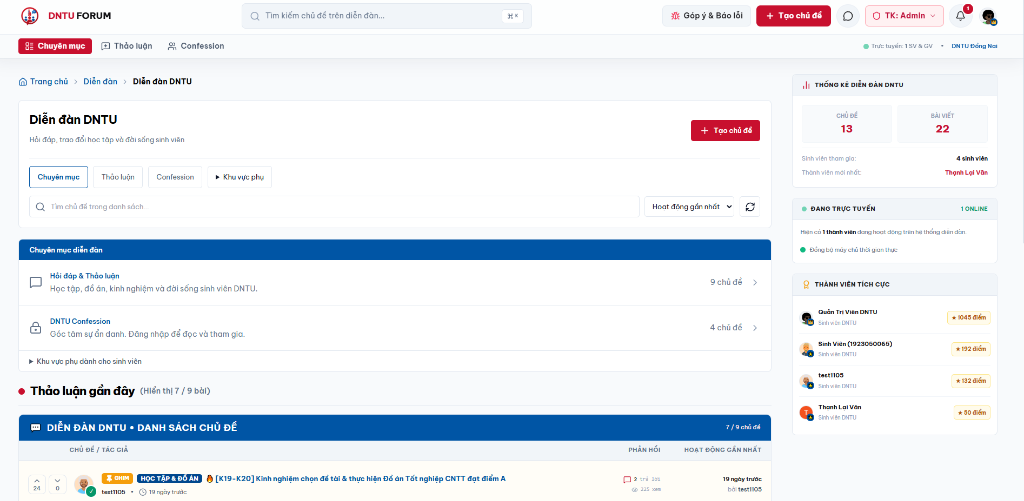
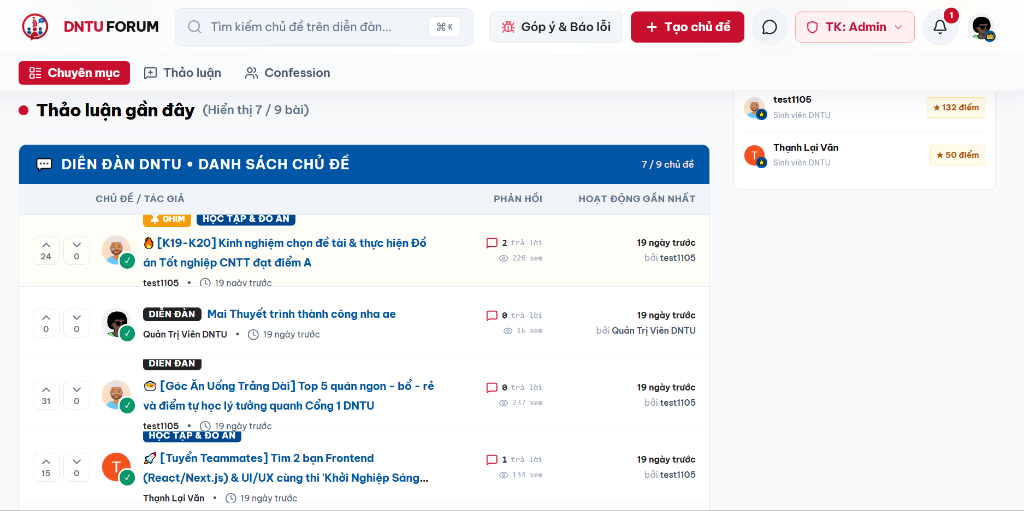
feat(projects): update DNTU-FORUM preview image to discussion topics list
- Replaced project preview image with the newly uploaded topics and discussion list screenshot
- Adjusted aspect ratio to 2:1 to display the full forum interface without cropping

diff --git a/src/app/page.tsx b/src/app/page.tsx
@@ -528,16 +528,15 @@ export default function PortfolioPage() {
                     </p>
 
                     {/* DNTU-FORUM Preview Image */}
-                    <div className="relative w-full aspect-[16/9] rounded-xl overflow-hidden border border-[var(--line-light)] mb-3 bg-slate-100 dark:bg-slate-800 shadow-sm group">
+                    <div className="relative w-full aspect-[2/1] rounded-xl overflow-hidden border border-[var(--line-light)] mb-4 bg-slate-100 dark:bg-slate-800 shadow-sm group">
                       <Image
                         src="/dntu-forum-preview.png"
                         alt="Giao diện thực tế diễn đàn sinh viên DNTU-FORUM"
                         fill
-                        className="object-cover object-top transition-transform duration-500 group-hover:scale-[1.02]"
-                        sizes="(max-width: 1024px) 100vw, 650px"
+                        className="object-cover object-top transition-transform duration-500 group-hover:scale-[1.01]"
+                        sizes="(max-width: 1024px) 100vw, 700px"
                       />
                     </div>
-
 
                     {/* Tech tags */}
                     <div className="flex flex-wrap gap-1.5">
